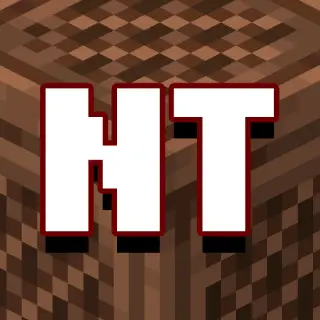
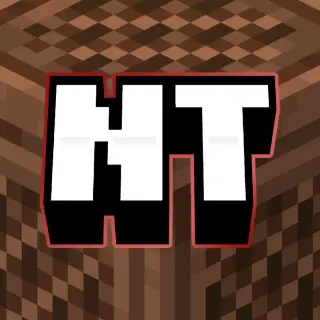
v3.11.0.2: Classic's Note Block Tweaks v0.5.0

Changed region(s): [[0.125, 0.2188, 0.875, 0.8125]]

diff --git a/latest-updates.js b/latest-updates.js
@@ -56,6 +56,15 @@ const LATEST_UPDATES = {
   entries: [
     {
       date: "2026-10-20",
+      tags: ["snapshot", "alpha"],
+      image: "images/note-block-tweaks.webp",
+      title: "Classic's Note Block Tweaks v0.5.0",
+      text: "New alpha for Classic's Note Block Tweaks, including a new pack icon and support for Java 26.4-snapshot-5.",
+      url: "/resource-packs#classics-note-block-unpackables",
+      linkText: "View Classic's Note Block Tweaks"
+    },
+    {
+      date: "2026-10-20",
       tags: ["snapshot", "beta"],
       image: "images/icons/snapshot.svg",
       title: "26.4 Snapshot 5",

diff --git a/data.js b/data.js
@@ -18,7 +18,7 @@ const SITE_DATA = {
   },
 
   version: {
-    label: "v3.11.0.1",
+    label: "v3.11.0.2",
     url: "https://github.com/Classics-Craftworks/Website/blob/main/CHANGELOG.md"
   },
 

diff --git a/CHANGELOG.md b/CHANGELOG.md
@@ -4,6 +4,11 @@ All notable changes to this project will be documented in this file.
 
 The format is based on [Keep a Changelog](https://keepachangelog.com).
 
+## v3.11.0.2 — 2026-10-20
+
+### Changed
+- Updated for Classic's Note Block Tweaks v0.5.0
+
 ## v3.11.0.1 — 2026-10-20
 
 ### Changed
